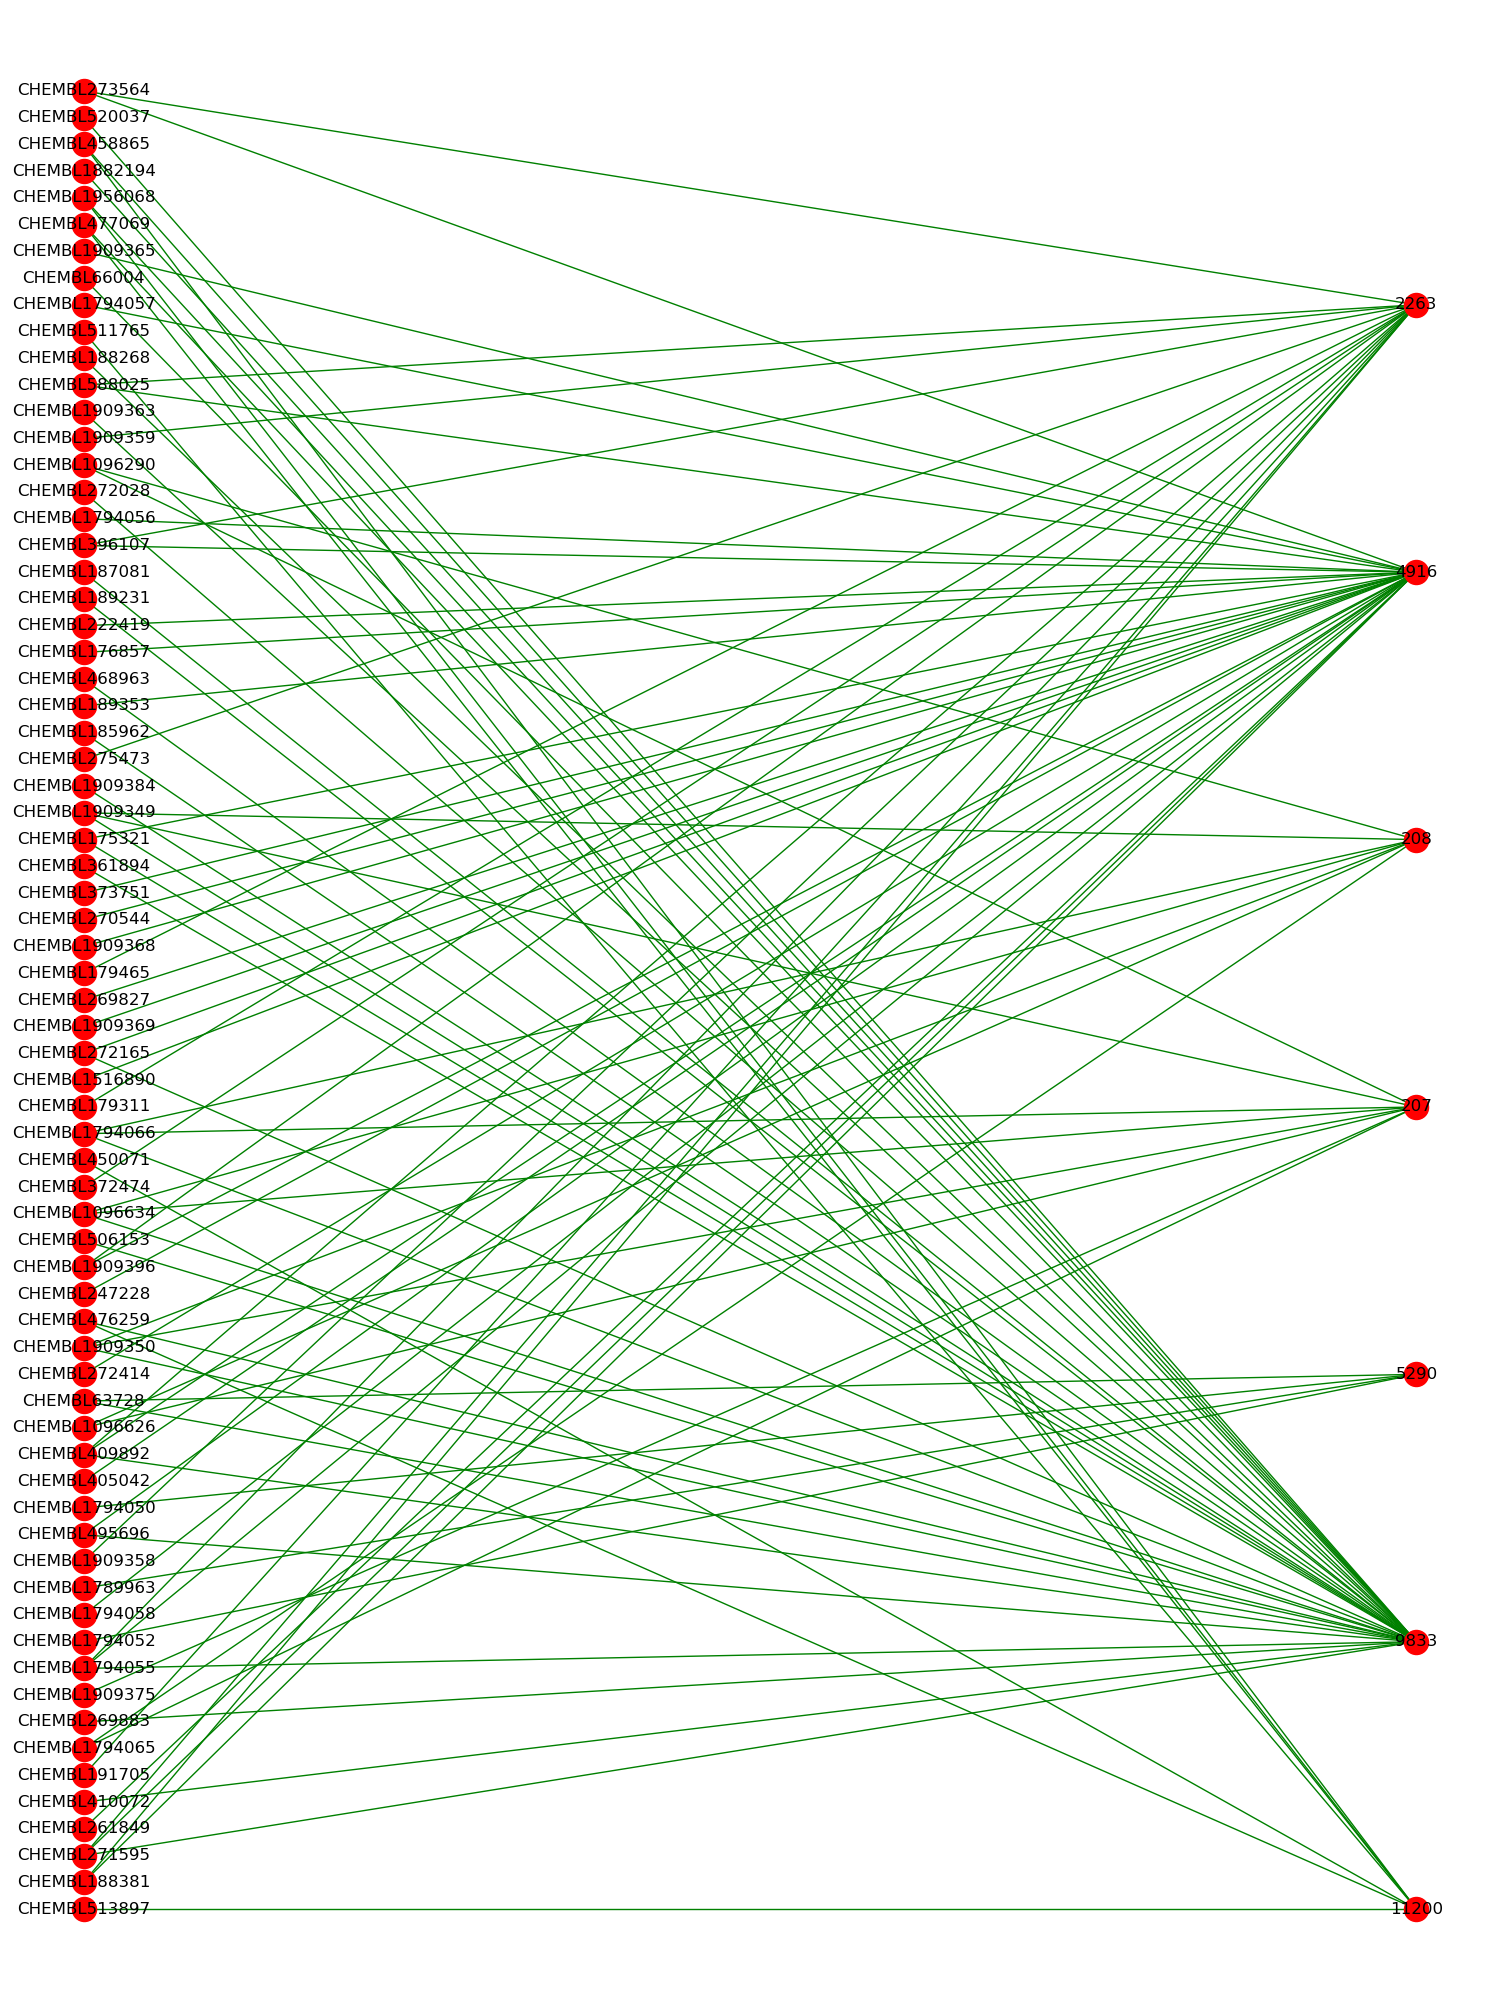
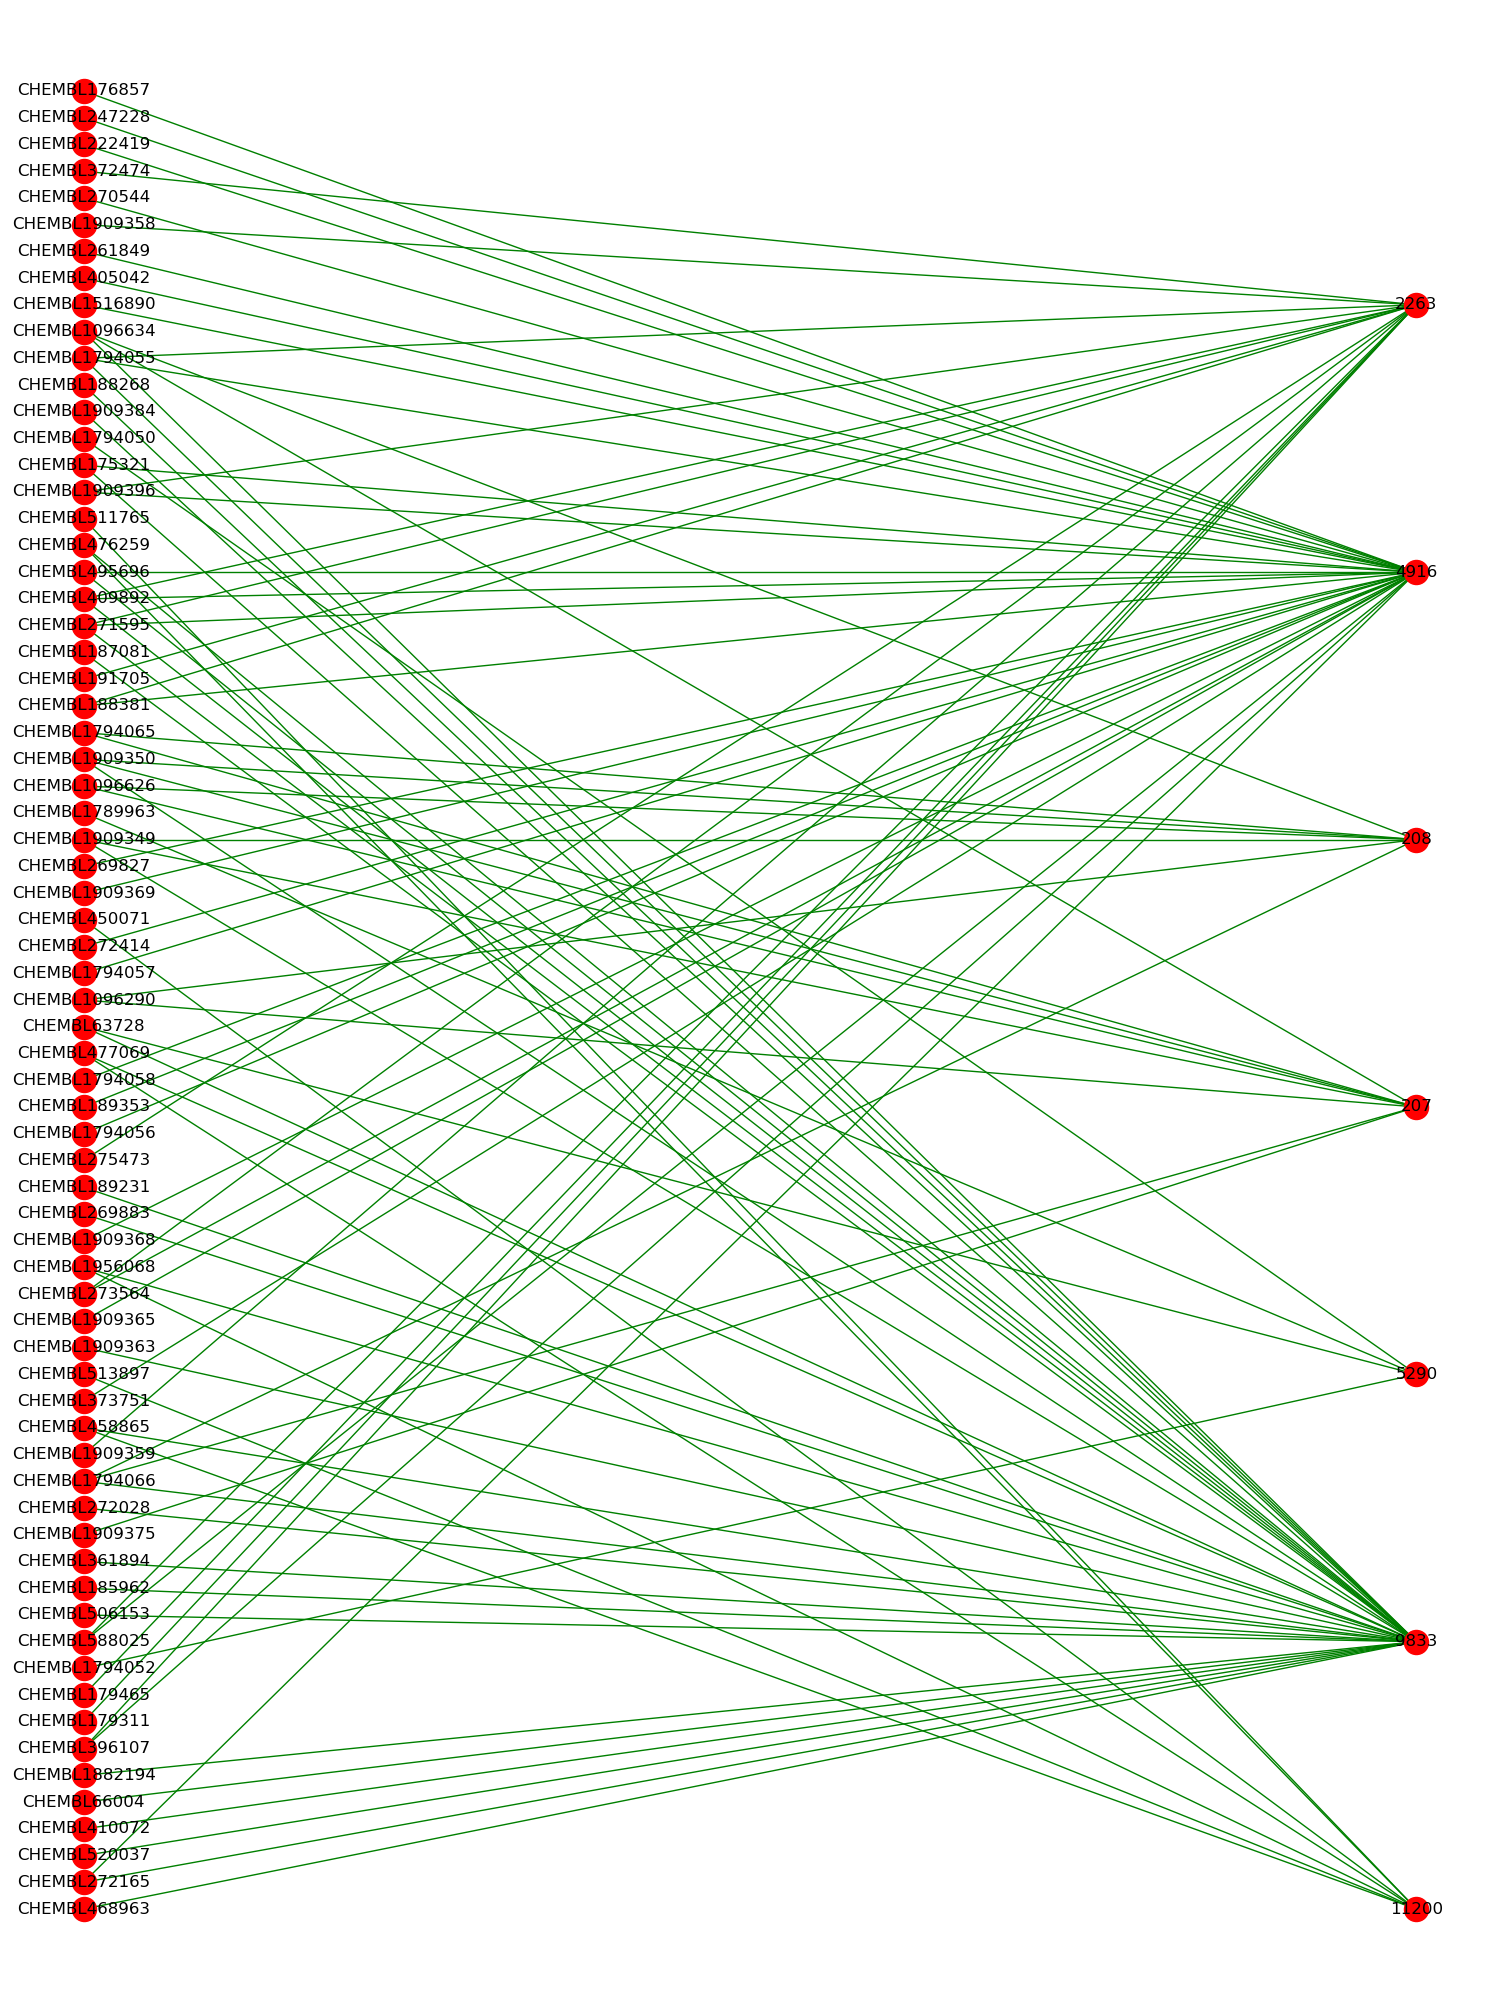
Bipartite graph .py and png added

Changed region(s): [[0.0, 0.031, 0.9507, 0.961], [0.1533, 0.093, 0.3067, 0.124], [0.4293, 0.868, 0.4907, 0.899]]

diff --git a/python/graph.py b/python/graph.py
@@ -6,6 +6,8 @@ import pandas as pd
 import numpy as np
 import warnings
 
+from plotly.offline.offline import matplotlib
+
 if len(sys.argv) < 3:
     exit("pvalued_interactions tsv filepath and confidence interval index required.")
 inputfile = sys.argv[1]
@@ -110,6 +112,66 @@ def nnet_graph(file, type, imageDim=20):
         plt.savefig("../outputs/net-random.png")
 
 
+def bipartite_graph(file):
+    # plot dimensions
+    matplotlib.rcParams['figure.figsize'] = [15, 20]  # for square canvas
+    matplotlib.rcParams['figure.subplot.left'] = 0
+    matplotlib.rcParams['figure.subplot.bottom'] = 0
+    matplotlib.rcParams['figure.subplot.right'] = 1
+    matplotlib.rcParams['figure.subplot.top'] = 1
+
+    # read flagged interactions: colums 0 and 1 as nodes, rows as interactions
+    data = pd.read_csv(file, sep="\t")
+    interactions = [tuple([row[1], row[2], row[4]]) for row in data.values.tolist() if row[3] == 1]
+    drug_pval = set([tuple([row[0], row[2]]) for row in interactions])
+    drug_pval = [row[1] for row in drug_pval]
+    drug_nodes = list(set([row[0] for row in interactions]))
+    gene_nodes = list(set([row[1] for row in interactions]))
+    interactions = [tuple([row[0], row[1]]) for row in interactions]
+    print(len(interactions))
+    print(len(drug_nodes))
+    print(len(gene_nodes))
+
+    # create bipartite graph
+    G = nx.Graph()
+    # Add nodes with the node attribute "bipartite"
+    G.add_nodes_from(drug_nodes, bipartite=0)
+    G.add_nodes_from(gene_nodes, bipartite=1)
+    # Add edges only between nodes of opposite node sets
+    G.add_edges_from(interactions)
+    nx.is_connected(G)
+
+    # distribute node positions according to their bipartite 'class' 0-drugs, 1-genes
+    X, Y = nx.bipartite.sets(G)
+    pos = dict()
+    posX = dict()
+    posY = dict()
+    posX.update((n, (0, i * 10)) for i, n in enumerate(X))
+    posY.update((n, (0.5, i * 100)) for i, n in enumerate(Y))
+    pos.update((n, (0, i * 10)) for i, n in enumerate(X))
+    pos.update((n, (0.5, i * 100)) for i, n in enumerate(Y))
+
+    bipartite_colors = np.array(list(reversed(sorted(list(nx.bipartite.color(G).values()), key=int))))
+    print(bipartite_colors)
+
+    # draw in the positions
+    nx.draw(G, pos=pos, with_labels=True,
+            edge_color="Green",
+            edge_cmap=plt.get_cmap('Greens'),
+            node_color="Red",
+            cmap=plt.get_cmap('Reds'))
+
+    # nx.draw_networkx_nodes(X, pos=posX, with_labels=True, node_color=np.array(drug_pval), cmap=plt.get_cmap('Greens'))
+    # nx.draw_networkx_nodes(Y, pos=posY, with_labels=True, node_color="Blue")
+    # nx.draw_networkx_labels(G, pos=pos)
+    # nx.draw_networkx_edges(G, pos=pos)
+
+    plt.title('All breast-cancer-genes interactions with GSK drugs')
+    plt.savefig("../outputs/NNETGraph/bipartite.png")
+
+
 nnet_graph(inputfile, "kawai", imageDim=10)
+bipartite_graph(inputfile)
+
 # Si van a aparecer muchas conexiones, es mejor aumentar el tamaño de la ventana
 # nnet_graph("../outputs/pvalued_interactions_0.95.tsv", "kawai", imageDim = 50)
